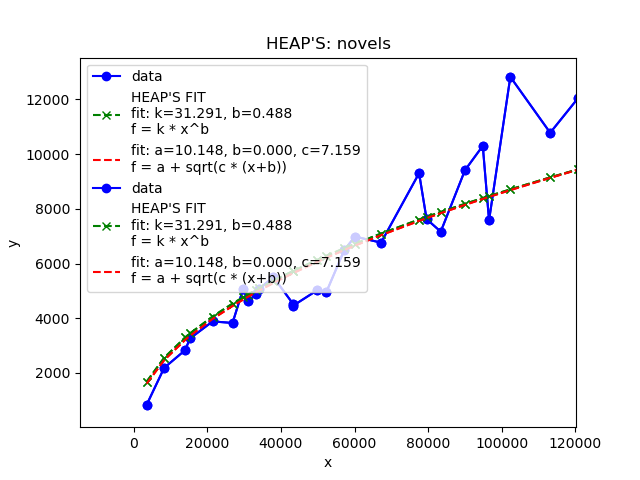
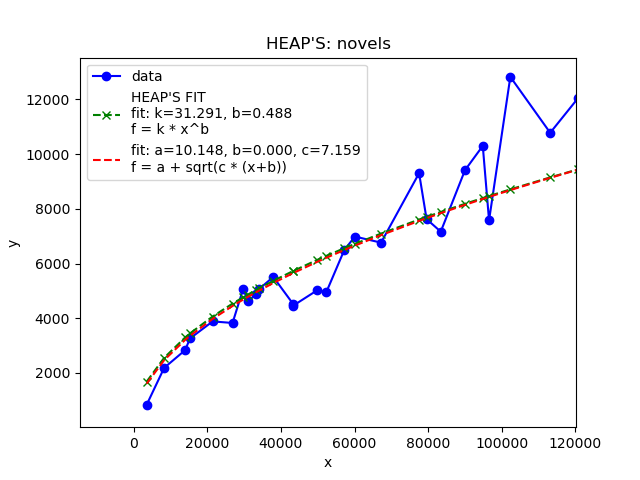
FINAL CODE de verdad jajaja

diff --git a/CAIM-1/plot_elastic_search_laws.py b/CAIM-1/plot_elastic_search_laws.py
@@ -173,8 +173,11 @@ def heaps_checker(file_basic: str, num_of_files: int, index_and_count: bool = Fa
     plt.title("HEAP'S: {0}".format(file_basic))
     plt.savefig("heaps_{0}{1}.png".format(file_basic, "_zoomed"*zoomed))
 
+    plt.clf()
+
 
 zipf_checker(files=files_zipf)
+
 heaps_checker(file_basic='novels', num_of_files=32, zoomed=False)
 heaps_checker(file_basic='novels', num_of_files=32, zoomed=True)
 
